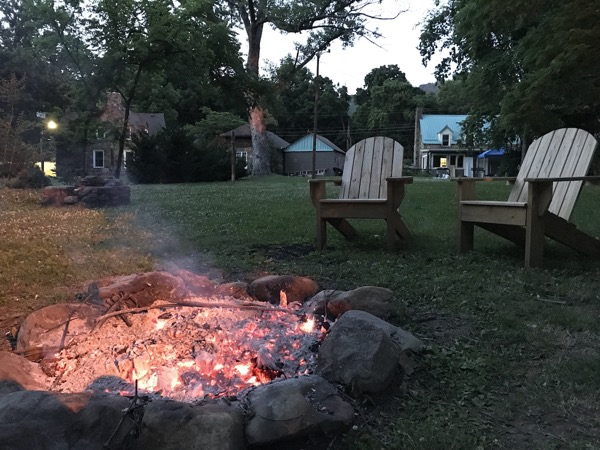
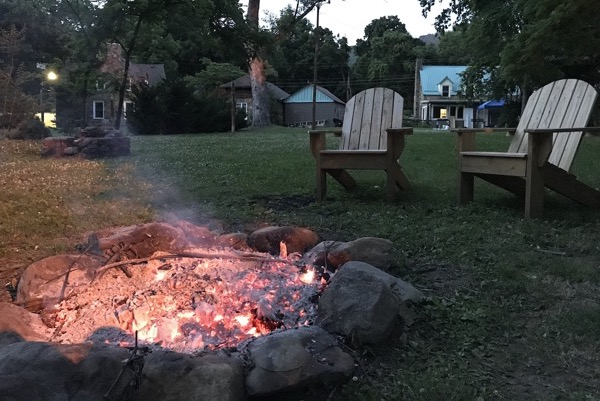
Resize thumbnails. Correct scaling problems.

diff --git a/index.html b/index.html
@@ -135,15 +135,20 @@
         </a>
       </div>
       <div class="col-lg-3 col-sm-6 gallery-photo">
-        <a class="lightbox" href="images/thumbnails/7_thumb.jpg">
-          <img class="img-fluid" src="images/7.jpg" />
+        <a class="lightbox" href="images/7.jpg">
+          <img class="img-fluid" src="images/thumbnails/7_thumb.jpg" />
         </a>
       </div>
       <div class="col-lg-3 col-sm-6 gallery-photo">
-        <a class="lightbox" href="images/thumbnails/8_thumb.jpg">
-          <img class="img-fluid" src="images/8.jpg" />
+        <a class="lightbox" href="images/8.jpg">
+          <img class="img-fluid" src="images/thumbnails/8_thumb.jpg" />
         </a>
       </div>
+
+    </div>
+    <div class="text-center mx-auto secondary-text-box pb-4 pt-4" style="background: #000">
+        <!-- <h1 class="text-uppercase">Ready to plan Your vacation?</h1> -->
+        <a class="btn btn-sm btn-danger" target="_blank" rel="noopener" href="https://www.vrbo.com/1348567">See more...</a>
     </div>
   </section><!--- End Section Gallery -->
 

diff --git a/css/style.css b/css/style.css
@@ -178,8 +178,6 @@ section {
 
 .gallery-photo img {
   opacity: 0.7;
-  width: 100%;
-  height: 250px;
   transform: scale(1.15);
   /* This is triggered by the rule below   */
   transition: transform 0.5s, opacity 0.5s;
@@ -233,10 +231,9 @@ footer {
 
   .gallery-photo img {
     opacity: 1;
-    width: 100%;
-    height: 250px;
     transform: none;
   }
+
 
   .gallery-photo img:hover {
       /* If we scale to 100% of the img size, a white space appears below the img  */
